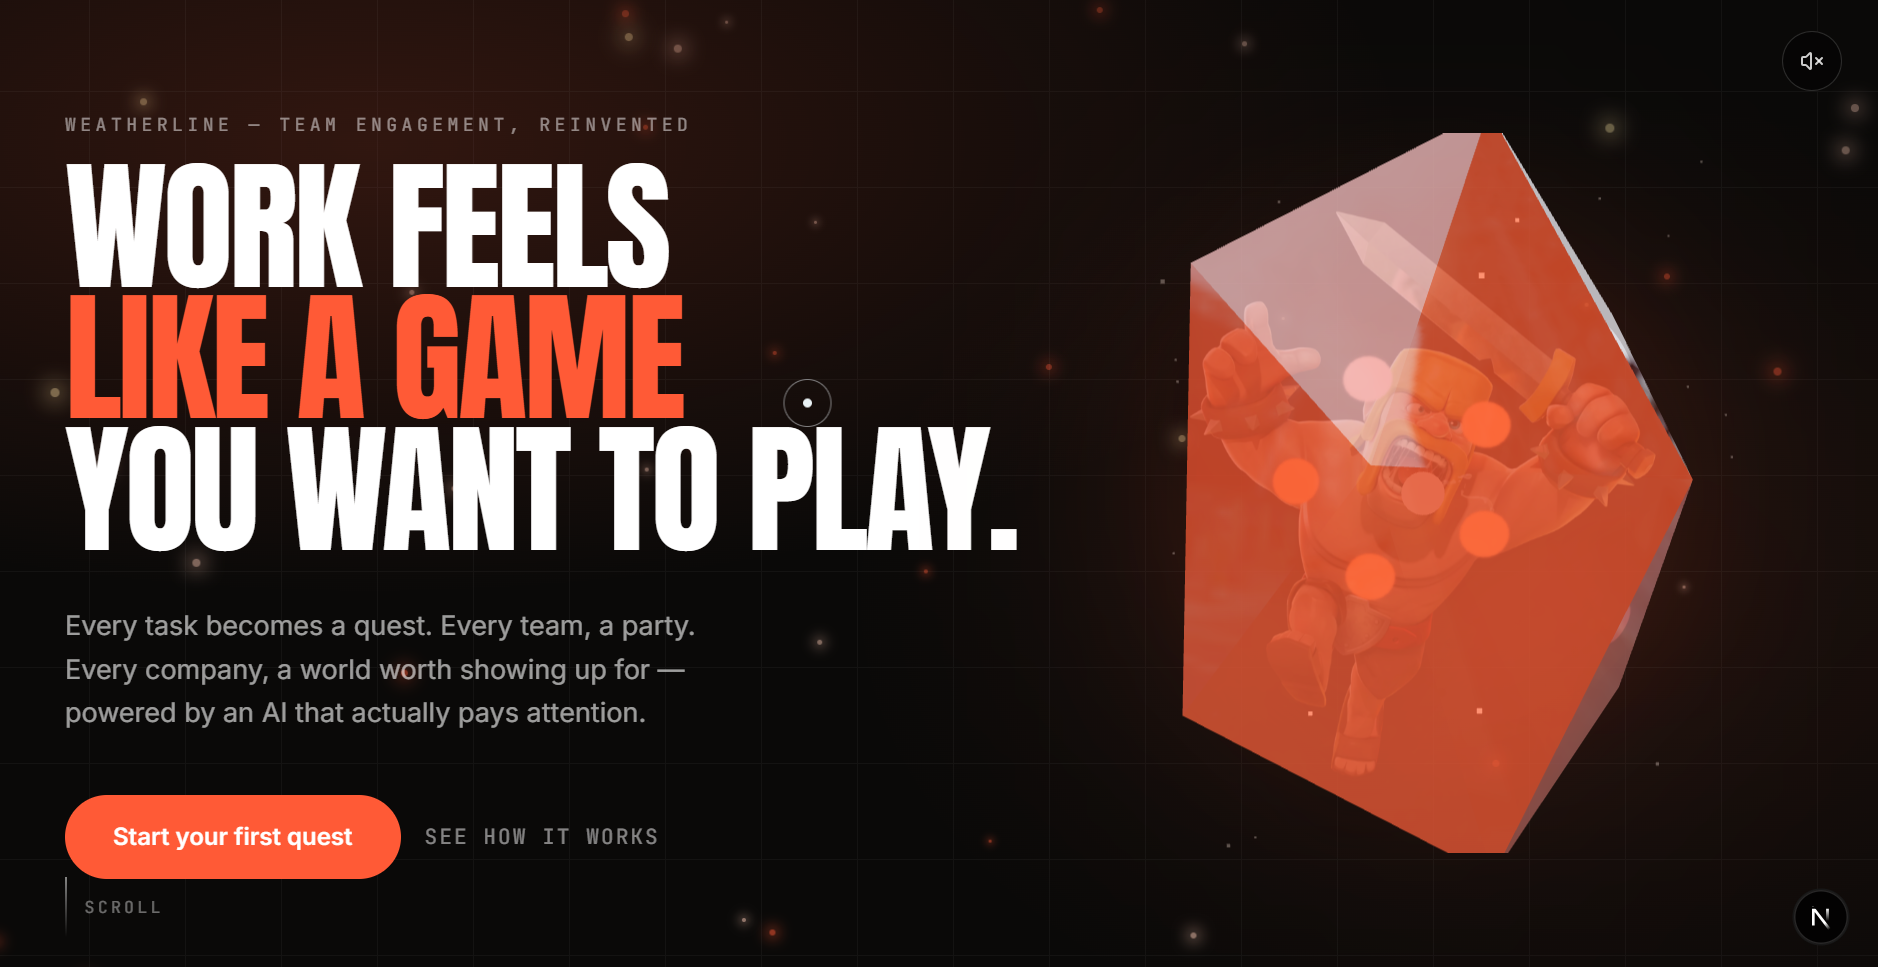
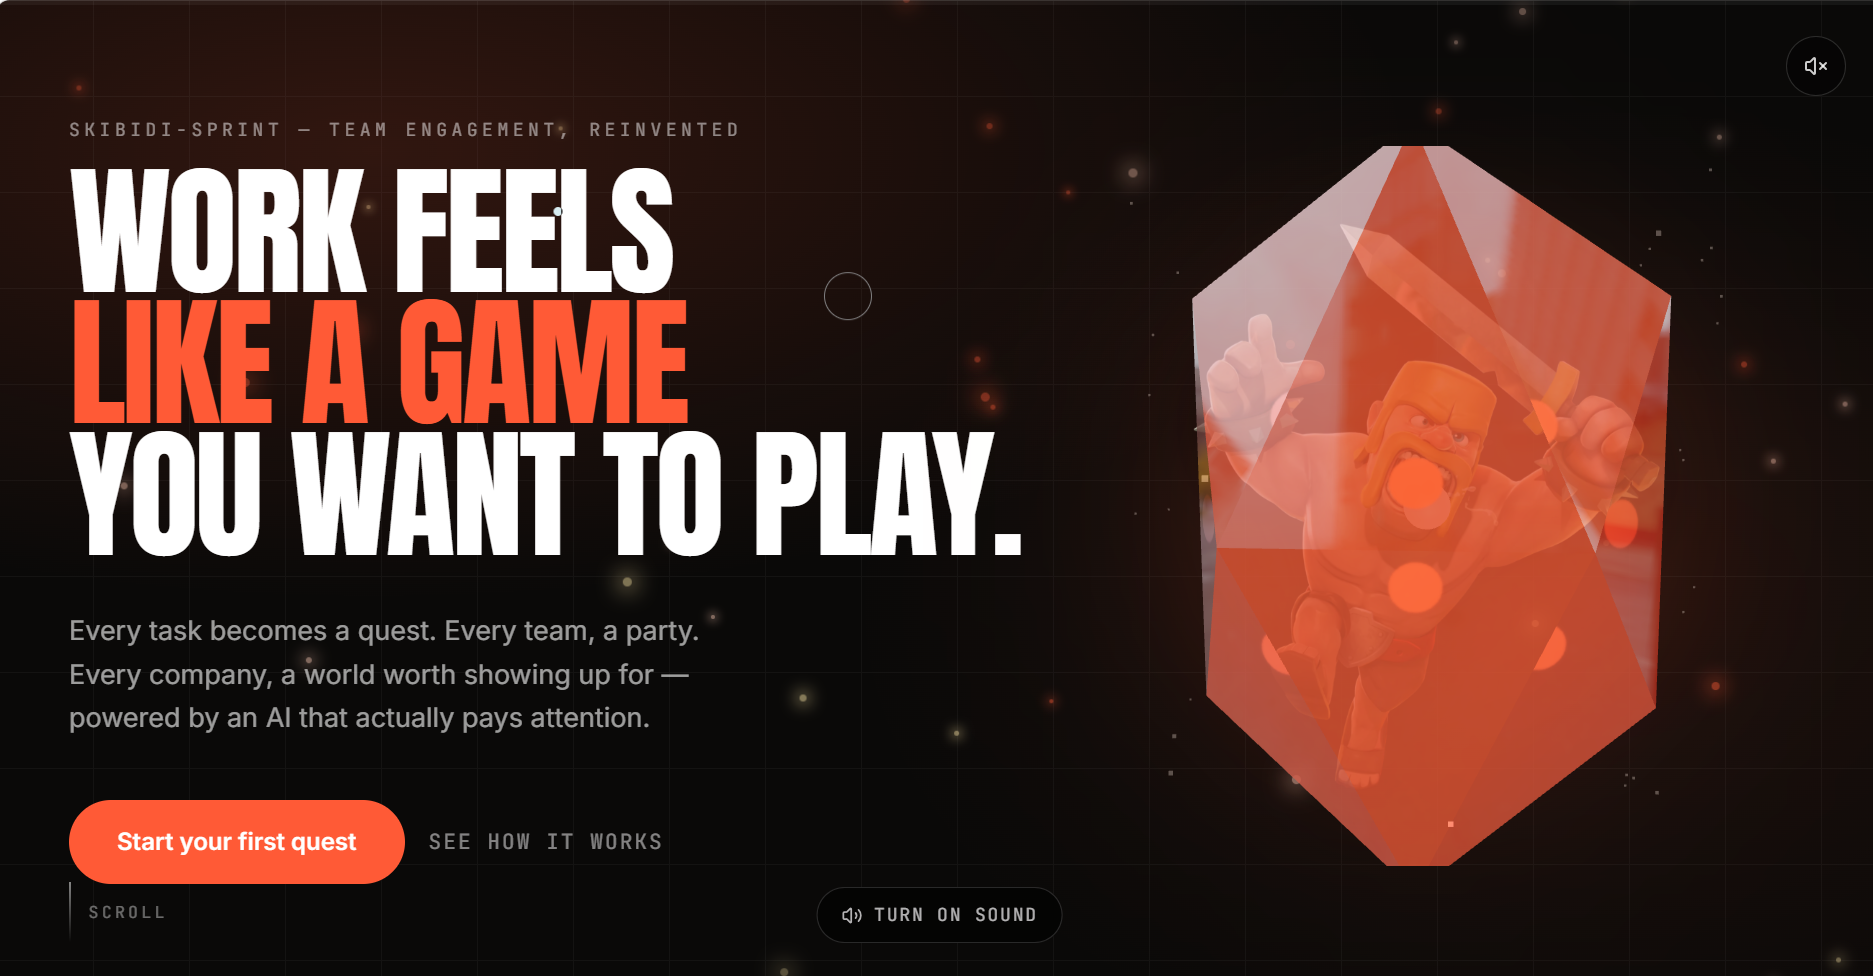
Project V4.0.1 Lauch - OG Image Issue Fix

diff --git a/frontend/src/app/layout.tsx b/frontend/src/app/layout.tsx
@@ -33,7 +33,7 @@ const jetbrainsMono = JetBrains_Mono({
   subsets: ["latin"],
 });
 
-const SITE_URL = "https://weatherliner.vercel.app";
+const SITE_URL = "https://skibidi-sprint.vercel.app";
 const TITLE = "Skibidi-Sprint — Team Engagement, Reinvented";
 const DESCRIPTION =
   "Every task becomes a quest. Every team, a party. Every company, a world worth showing up for — powered by an AI that actually pays attention.";
